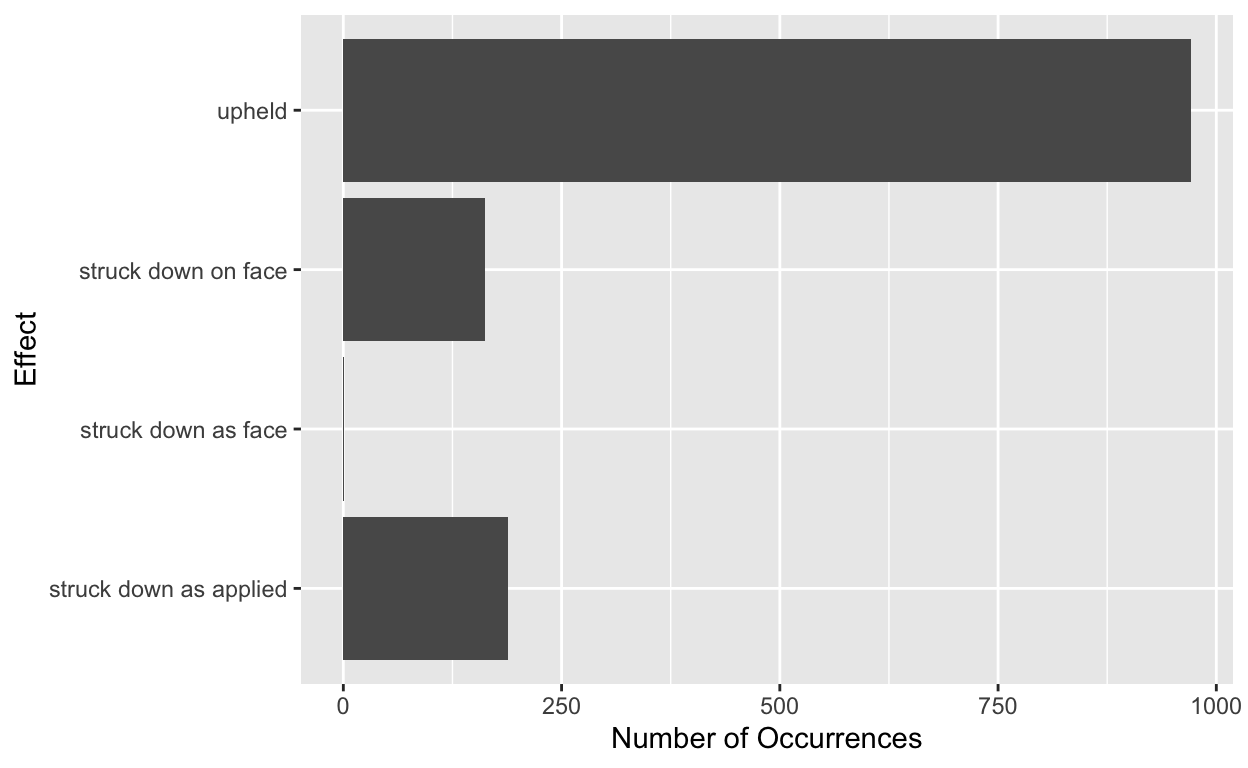
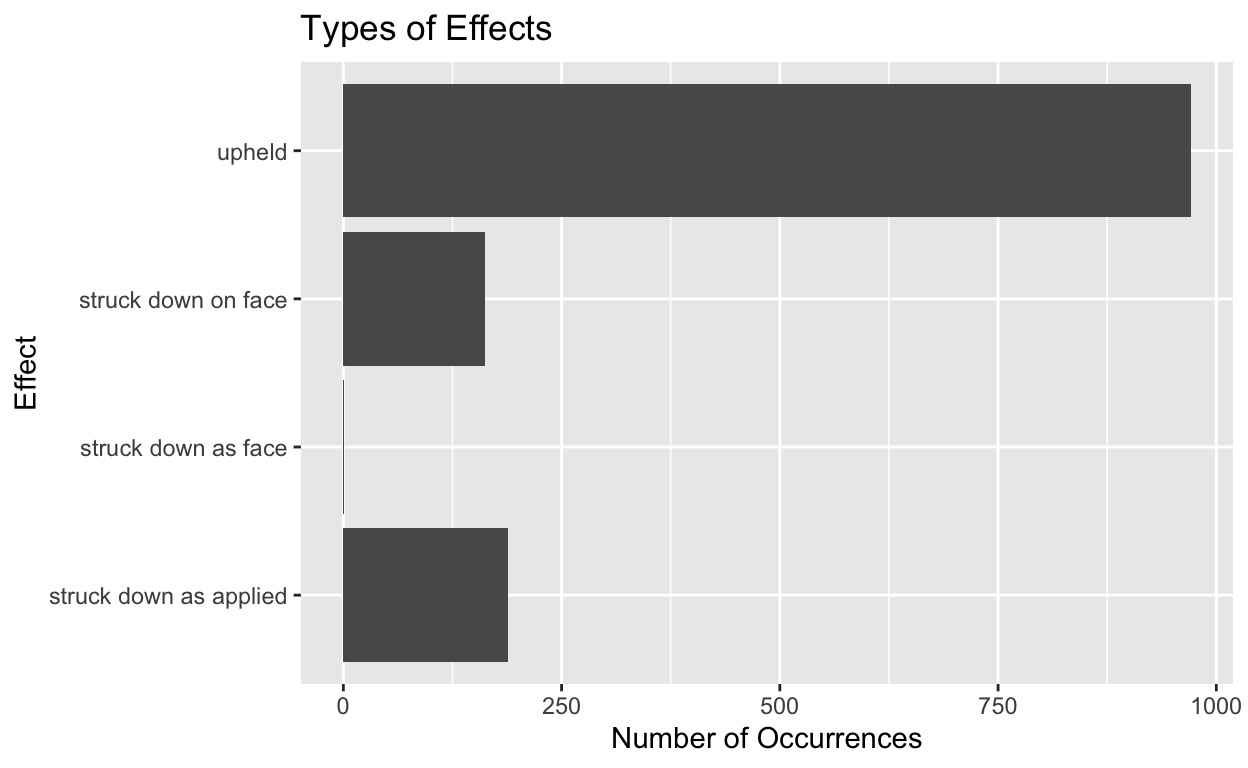
final

diff --git a/index.html b/index.html
@@ -116,7 +116,7 @@ code span.wa { color: #5e5e5e; font-style: italic; } /* Warning */
   <!--/radix_placeholder_rmarkdown_metadata-->
   
   <script type="text/json" id="radix-resource-manifest">
-  {"type":"character","attributes":{},"value":["index_files/anchor-4.2.2/anchor.min.js","index_files/bowser-1.9.3/bowser.min.js","index_files/distill-2.2.21/template.v2.js","index_files/figure-html5/unnamed-chunk-3-1.png","index_files/figure-html5/unnamed-chunk-4-1.png","index_files/figure-html5/unnamed-chunk-8-1.png","index_files/header-attrs-2.17/header-attrs.js","index_files/header-attrs-2.30/header-attrs.js","index_files/jquery-3.6.0/jquery-3.6.0.js","index_files/jquery-3.6.0/jquery-3.6.0.min.js","index_files/jquery-3.6.0/jquery-3.6.0.min.map","index_files/judicial_review_of_congress_database_1789-2022.xlsx","index_files/popper-2.6.0/popper.min.js","index_files/tippy-6.2.7/tippy-bundle.umd.min.js","index_files/tippy-6.2.7/tippy-light-border.css","index_files/tippy-6.2.7/tippy.css","index_files/tippy-6.2.7/tippy.umd.min.js","index_files/webcomponents-2.0.0/webcomponents.js","judicial_review_of_congress_database_1789-2022.xlsx"]}
+  {"type":"character","attributes":{},"value":["index_files/anchor-4.2.2/anchor.min.js","index_files/bowser-1.9.3/bowser.min.js","index_files/distill-2.2.21/template.v2.js","index_files/figure-html5/unnamed-chunk-3-1.png","index_files/figure-html5/unnamed-chunk-4-1.png","index_files/figure-html5/unnamed-chunk-7-1.png","index_files/figure-html5/unnamed-chunk-8-1.png","index_files/figure-html5/unnamed-chunk-9-1.png","index_files/header-attrs-2.17/header-attrs.js","index_files/header-attrs-2.30/header-attrs.js","index_files/jquery-3.6.0/jquery-3.6.0.js","index_files/jquery-3.6.0/jquery-3.6.0.min.js","index_files/jquery-3.6.0/jquery-3.6.0.min.map","index_files/judicial_review_of_congress_database_1789-2022.xlsx","index_files/popper-2.6.0/popper.min.js","index_files/tippy-6.2.7/tippy-bundle.umd.min.js","index_files/tippy-6.2.7/tippy-light-border.css","index_files/tippy-6.2.7/tippy.css","index_files/tippy-6.2.7/tippy.umd.min.js","index_files/webcomponents-2.0.0/webcomponents.js","judicial_review_of_congress_database_1789-2022.xlsx"]}
   </script>
   <!--radix_placeholder_navigation_in_header-->
   <!--/radix_placeholder_navigation_in_header-->
@@ -1544,100 +1544,112 @@ code span.wa { color: #5e5e5e; font-style: italic; } /* Warning */
 </div>
 
 <div class="d-article">
-<h3 id="milestone-1-project-thoughts">Milestone 1: Project thoughts</h3>
-<p>I am interested in exploring data related to judges, potentially elections in certain states, campaigns, and other related types of data.</p>
-<h3 id="milestone-2">Milestone 2</h3>
-<p>My research question is how does the presence of an Attorney General (AG)/Attorney from the Department of Justice (DOJ) affect whether the Supreme Court upholds or strikes down a statutory provision? My hypothesis is that if an AG/DOJ attorney is present during a Supreme Court hearing and decision, the Supreme Court will be more likely to uphold a statutory provision, as the Attorney General/DOJ attorney holds influence over the court to a certain degree and are usually arguing for a statutory provision, rather than against it. My explanatory variable is ATT GEN, which denotes if an attorney from the DOJ presented arguments at the hearing. My outcome variable is EFFECT, and the possible outcomes are upheld (the court upholds an already standing law/decision), struck down as applied (the court does not uphold the standing law/decision for this specfic case only), or struck down on face (the court does not uphold the standing law/decision overall in all cases). If cases where ATT GEN = 1 and EFFECT = upheld.</p>
+<h3 id="introduction">Introduction</h3>
+<p>My research question is to explore how the presence of an Attorney General or Attorney from the Department of Justice (DOJ) affect whether the Supreme Court upholds or strikes down a statutory provision. This is important because evaluating how a member of the Department of Justice in attendance affects a justice’s ruling could have more implications for how judges decide cases. If having a DOJ member present arguments sways a judge’s opinion in favor of upholding a standing decision, it may be shown to be better to not have a DOJ member present during Supreme Court cases.</p>
+<p>My hypothesis is that if an AG/DOJ attorney is present during a Supreme Court hearing and decision, the Supreme Court will be more likely to uphold a statutory provision, because the Attorney General/DOJ attorney holds influence over the court to a certain degree and generally uphold pre-existing statutes based on law that is in effect.</p>
+<h3 id="variable-legend">Variable Legend</h3>
+<p>My explanatory variable is ATT GEN, which denotes if an attorney from the DOJ presented arguments at the hearing. My outcome variable is EFFECT, and the possible outcomes are upheld (the court upholds an already standing law/decision), struck down as applied (the court does not uphold the standing law/decision for this specfic case only), or struck down on face (the court does not uphold the standing law/decision overall in all cases). To support my hypothesis, the data would show that when ATT GEN = 1 and EFFECT = upheld the number of cases would be more than when ATT GEN = 1 and EFFECT = struck down as applied and EFFECT = struck down on/as face.</p>
+<p>Explanatory Variable = ATT GEN</p>
+<ul>
+<li><p>If an attorney from the DOJ presented arguments at the hearing</p></li>
+<li><p>The possible outcomes are</p>
+<ul>
+<li><p>1 (Attorney general or member of the Department of Justice presented arguments)</p></li>
+<li><p>0 (Attorney general or member of the Department of Justice did not present arguments)</p></li>
+</ul></li>
+</ul>
+<p>Outcome Variable = EFFECT</p>
+<ul>
+<li><p>The possible outcomes are</p>
+<ul>
+<li><p>Upheld (the court upholds an already standing law/decision)</p></li>
+<li><p>Struck down as applied (the court does not uphold the standing law/decision for this specific case only)</p></li>
+<li><p>Struck down on face (the court does not uphold the standing law/decision overall in all cases)</p></li>
+</ul></li>
+</ul>
+<h3 id="graphs-and-data">Graphs and Data</h3>
 <div class="layout-chunk" data-layout="l-body">
-<div class="sourceCode">
-<pre class="sourceCode r"><code class="sourceCode r"><span><span class='kw'><a href='https://rdrr.io/r/base/library.html'>library</a></span><span class='op'>(</span><span class='va'><a href='https://readxl.tidyverse.org'>readxl</a></span><span class='op'>)</span></span>
-<span><span class='kw'><a href='https://rdrr.io/r/base/library.html'>library</a></span><span class='op'>(</span><span class='va'><a href='https://tidyverse.tidyverse.org'>tidyverse</a></span><span class='op'>)</span></span></code></pre>
-</div>
-</div>
-<div class="layout-chunk" data-layout="l-body">
-<div class="sourceCode">
-<pre class="sourceCode r"><code class="sourceCode r"><span><span class='va'>judicial</span> <span class='op'>&lt;-</span> <span class='fu'><a href='https://readxl.tidyverse.org/reference/read_excel.html'>read_xlsx</a></span><span class='op'>(</span><span class='st'>"/Users/autumnlee/PS-270-Final-Proj/judicial_review_of_congress_database_1789-2022.xlsx"</span><span class='op'>)</span></span>
-<span></span>
-<span><span class='fu'><a href='https://rdrr.io/r/utils/head.html'>head</a></span><span class='op'>(</span><span class='va'>judicial</span><span class='op'>)</span></span></code></pre>
-</div>
-<pre><code># A tibble: 6 × 27
-  CASE           CITATION DATE   YEAR DECADE DECISION DECISION2 EFFECT
-  &lt;chr&gt;          &lt;chr&gt;    &lt;chr&gt; &lt;dbl&gt;  &lt;dbl&gt;    &lt;dbl&gt;     &lt;dbl&gt; &lt;chr&gt; 
-1 United States… *54 U.S… 2/17…  1794   1790        2         1 struc…
-2 Penhallow v. … 003 U.S… 2/24…  1795   1790        0         0 upheld
-3 Hylton v. Uni… 003 U.S… 3/8/…  1796   1790        0         0 upheld
-4 United States… 003 U.S… 8/11…  1796   1790        0         0 upheld
-5 Mossman v. Hi… 004 U.S… 8/11…  1800   1800        1         1 struc…
-6 Marbury v. Ma… 005 U.S… 2/24…  1803   1800        2         1 struc…
-# ℹ 19 more variables: `STAT NAME` &lt;chr&gt;, `STAT CITE` &lt;chr&gt;,
-#   `PL #` &lt;chr&gt;, `S-DATE` &lt;chr&gt;, `TIME TO DECISION` &lt;dbl&gt;,
-#   CONGRESS &lt;dbl&gt;, AREA1 &lt;chr&gt;, AREA2 &lt;dbl&gt;, LNDMRK &lt;dbl&gt;,
-#   LNDDTL &lt;dbl&gt;, `ATT GEN` &lt;dbl&gt;, CERT &lt;dbl&gt;, REVERSD &lt;dbl&gt;,
-#   CRS &lt;dbl&gt;, `GVT PRTY` &lt;dbl&gt;, DISSENT &lt;dbl&gt;, `H-CT` &lt;dbl&gt;,
-#   caseId.SCDB &lt;chr&gt;, `JRC caseID` &lt;chr&gt;</code></pre>
-</div>
-<h3 id="milestone-3">Milestone 3</h3>
-<div class="layout-chunk" data-layout="l-body">
-<div class="sourceCode">
-<pre class="sourceCode r"><code class="sourceCode r"><span><span class='va'>milestone_3</span> <span class='op'>&lt;-</span> <span class='va'>judicial</span> <span class='op'>|&gt;</span></span>
-<span>  <span class='fu'><a href='https://dplyr.tidyverse.org/reference/group_by.html'>group_by</a></span><span class='op'>(</span><span class='va'>`ATT GEN`</span>, <span class='va'>`EFFECT`</span><span class='op'>)</span> <span class='op'>|&gt;</span></span>
-<span>  <span class='fu'><a href='https://dplyr.tidyverse.org/reference/summarise.html'>summarize</a></span><span class='op'>(</span>n<span class='op'>=</span><span class='fu'><a href='https://dplyr.tidyverse.org/reference/context.html'>n</a></span><span class='op'>(</span><span class='op'>)</span>, .groups <span class='op'>=</span> <span class='st'>"drop"</span><span class='op'>)</span></span></code></pre>
-</div>
+
 </div>
 <div class="layout-chunk" data-layout="l-body">
-<div class="sourceCode">
-<pre class="sourceCode r"><code class="sourceCode r"><span><span class='va'>milestone_3_1</span> <span class='op'>&lt;-</span> <span class='va'>milestone_3</span> <span class='op'>|&gt;</span></span>
-<span>  <span class='fu'><a href='https://ggplot2.tidyverse.org/reference/ggplot.html'>ggplot</a></span><span class='op'>(</span><span class='fu'><a href='https://ggplot2.tidyverse.org/reference/aes.html'>aes</a></span><span class='op'>(</span>x <span class='op'>=</span> <span class='va'>n</span>, y <span class='op'>=</span> <span class='va'>`EFFECT`</span> <span class='op'>)</span><span class='op'>)</span> <span class='op'>+</span></span>
-<span>          <span class='fu'><a href='https://ggplot2.tidyverse.org/reference/geom_bar.html'>geom_col</a></span><span class='op'>(</span><span class='op'>)</span> <span class='op'>+</span></span>
-<span>  <span class='fu'><a href='https://ggplot2.tidyverse.org/reference/labs.html'>labs</a></span><span class='op'>(</span></span>
-<span>    y <span class='op'>=</span> <span class='st'>"Effect"</span>,</span>
-<span>    x <span class='op'>=</span> <span class='st'>"Number of Occurrences"</span></span>
-<span>  <span class='op'>)</span></span>
-<span></span>
-<span><span class='va'>milestone_3_1</span></span></code></pre>
+
 </div>
+<div class="layout-chunk" data-layout="l-body">
+
+</div>
+<div class="layout-chunk" data-layout="l-body">
 <p><img src="index_files/figure-html5/unnamed-chunk-4-1.png" alt="" width="624" /></p>
 </div>
-<h3 id="milestone-4">Milestone 4</h3>
-<p>Your article should contain one visualization and one analysis that attempts to answer your research question. There does not need to be a long discussion, but the results should be presented in either a second visualization or a nicely formatted table.</p>
 <div class="layout-chunk" data-layout="l-body">
-<div class="sourceCode">
-<pre class="sourceCode r"><code class="sourceCode r"><span><span class='va'>judicial</span> <span class='op'>&lt;-</span> <span class='va'>judicial</span> <span class='op'>|&gt;</span></span>
-<span>  <span class='fu'><a href='https://dplyr.tidyverse.org/reference/group_by.html'>group_by</a></span><span class='op'>(</span><span class='va'>EFFECT</span><span class='op'>)</span> <span class='op'>|&gt;</span></span>
-<span>  <span class='fu'><a href='https://dplyr.tidyverse.org/reference/mutate.html'>mutate</a></span><span class='op'>(</span>Outcome <span class='op'>=</span> <span class='fu'><a href='https://dplyr.tidyverse.org/reference/case_when.html'>case_when</a></span><span class='op'>(</span></span>
-<span>    <span class='va'>EFFECT</span> <span class='op'>==</span> <span class='st'>"struck down as applied"</span> <span class='op'>&amp;</span> <span class='va'>`ATT GEN`</span> <span class='op'>==</span> <span class='fl'>1</span> <span class='op'>~</span> <span class='st'>"Struck Down with Att Gen"</span>,</span>
-<span>    <span class='va'>EFFECT</span> <span class='op'>==</span> <span class='st'>"struck down as applied"</span> <span class='op'>&amp;</span> <span class='va'>`ATT GEN`</span> <span class='op'>==</span> <span class='fl'>0</span> <span class='op'>~</span> <span class='st'>"Struck Down without Att Gen"</span>,</span>
-<span>    <span class='va'>EFFECT</span> <span class='op'>==</span> <span class='st'>"struck down on face"</span> <span class='op'>&amp;</span> <span class='va'>`ATT GEN`</span> <span class='op'>==</span> <span class='fl'>1</span> <span class='op'>~</span> <span class='st'>"Struck Down with Att Gen"</span>,</span>
-<span>    <span class='va'>EFFECT</span> <span class='op'>==</span> <span class='st'>"struck down on face"</span> <span class='op'>&amp;</span> <span class='va'>`ATT GEN`</span> <span class='op'>==</span> <span class='fl'>0</span> <span class='op'>~</span> <span class='st'>"Struck Down without Att Gen"</span>,</span>
-<span>    <span class='va'>EFFECT</span> <span class='op'>==</span> <span class='st'>"struck down as face"</span> <span class='op'>&amp;</span> <span class='va'>`ATT GEN`</span> <span class='op'>==</span> <span class='fl'>1</span> <span class='op'>~</span> <span class='st'>"Struck Down with Att Gen"</span>,</span>
-<span>    <span class='va'>EFFECT</span> <span class='op'>==</span> <span class='st'>"struck down as face"</span> <span class='op'>&amp;</span> <span class='va'>`ATT GEN`</span> <span class='op'>==</span> <span class='fl'>0</span> <span class='op'>~</span> <span class='st'>"Struck Down without Att Gen"</span>,</span>
-<span>    <span class='va'>EFFECT</span> <span class='op'>==</span> <span class='st'>"upheld"</span> <span class='op'>&amp;</span> <span class='va'>`ATT GEN`</span> <span class='op'>==</span> <span class='fl'>1</span> <span class='op'>~</span> <span class='st'>"Upheld with Att Gen"</span>,</span>
-<span>    <span class='va'>EFFECT</span> <span class='op'>==</span> <span class='st'>"upheld"</span> <span class='op'>&amp;</span> <span class='va'>`ATT GEN`</span> <span class='op'>==</span> <span class='fl'>0</span> <span class='op'>~</span> <span class='st'>"Upheld without Att Gen"</span></span>
-<span>  <span class='op'>)</span><span class='op'>)</span></span></code></pre>
+
 </div>
+<h3 id="results">Results</h3>
+<div class="layout-chunk" data-layout="l-body">
+
 </div>
 <div class="layout-chunk" data-layout="l-body">
-<div class="sourceCode">
-<pre class="sourceCode r"><code class="sourceCode r"><span><span class='va'>milestone_4</span> <span class='op'>&lt;-</span> <span class='va'>judicial</span> <span class='op'>|&gt;</span> </span>
-<span>  <span class='fu'><a href='https://dplyr.tidyverse.org/reference/group_by.html'>group_by</a></span><span class='op'>(</span><span class='va'>`Outcome`</span><span class='op'>)</span> <span class='op'>|&gt;</span></span>
-<span>  <span class='fu'><a href='https://dplyr.tidyverse.org/reference/summarise.html'>summarize</a></span><span class='op'>(</span>n<span class='op'>=</span><span class='fu'><a href='https://dplyr.tidyverse.org/reference/context.html'>n</a></span><span class='op'>(</span><span class='op'>)</span><span class='op'>)</span></span></code></pre>
-</div>
+<p><img src="index_files/figure-html5/unnamed-chunk-7-1.png" alt="" width="624" /></p>
 </div>
 <div class="layout-chunk" data-layout="l-body">
-<div class="sourceCode">
-<pre class="sourceCode r"><code class="sourceCode r"><span><span class='va'>milestone_4_1</span> <span class='op'>&lt;-</span> <span class='va'>milestone_4</span> <span class='op'>|&gt;</span></span>
-<span>  <span class='fu'><a href='https://ggplot2.tidyverse.org/reference/ggplot.html'>ggplot</a></span><span class='op'>(</span><span class='fu'><a href='https://ggplot2.tidyverse.org/reference/aes.html'>aes</a></span><span class='op'>(</span>x <span class='op'>=</span> <span class='va'>Outcome</span>, y <span class='op'>=</span> <span class='va'>n</span><span class='op'>)</span><span class='op'>)</span> <span class='op'>+</span></span>
-<span>           <span class='fu'><a href='https://ggplot2.tidyverse.org/reference/geom_bar.html'>geom_bar</a></span><span class='op'>(</span>stat <span class='op'>=</span> <span class='st'>"identity"</span>, width <span class='op'>=</span> <span class='fl'>1</span><span class='op'>)</span></span></code></pre>
+<table style="width:35%;">
+<colgroup>
+<col style="width: 19%" />
+<col style="width: 15%" />
+</colgroup>
+<thead>
+<tr class="header">
+<th></th>
+<th><ol type="1">
+<li></li>
+</ol></th>
+</tr>
+</thead>
+<tbody>
+<tr class="odd">
+<td>(Intercept)</td>
+<td>0.738</td>
+</tr>
+<tr class="even">
+<td></td>
+<td>(0.013)</td>
+</tr>
+<tr class="odd">
+<td>Num.Obs.</td>
+<td>1086</td>
+</tr>
+<tr class="even">
+<td>R2</td>
+<td>0.000</td>
+</tr>
+<tr class="odd">
+<td>R2 Adj.</td>
+<td>0.000</td>
+</tr>
+<tr class="even">
+<td>AIC</td>
+<td>1300.1</td>
+</tr>
+<tr class="odd">
+<td>BIC</td>
+<td>1310.1</td>
+</tr>
+<tr class="even">
+<td>Log.Lik.</td>
+<td>-648.042</td>
+</tr>
+<tr class="odd">
+<td>RMSE</td>
+<td>0.44</td>
+</tr>
+</tbody>
+</table>
 </div>
-</div>
-<div class="layout-chunk" data-layout="l-body">
-<div class="sourceCode">
-<pre class="sourceCode r"><code class="sourceCode r"><span><span class='va'>milestone_4_1</span></span></code></pre>
-</div>
-<p><img src="index_files/figure-html5/unnamed-chunk-8-1.png" alt="" width="624" /></p>
-</div>
-<p>This graph is showing that there is a pattern where when an attorney general/DOJ member is present, the case is likely to be upheld. It seems that in general the Supreme Court upholds cases more often with or without an attorney general/DOJ member present.</p>
-<div class="sourceCode" id="cb2"><pre class="sourceCode r distill-force-highlighting-css"><code class="sourceCode r"></code></pre></div>
+<h3 id="conclusion">Conclusion</h3>
+<p>This graph is showing that there is a pattern where when an attorney general/DOJ member is present, the case is likely to be upheld. According to the main coefficient of interest from the regression, there is a 74% chance that if a case were to be held with an attorney general, the statute the case follows would be upheld.</p>
+<p>It seems that in general the Supreme Court upholds cases more often with or without an attorney general/DOJ member present. This data should not be held causally. The rates at which a case is upheld in when a DOJ member is or is not present is at a similar proportion to when a DOJ member is not present.</p>
+<p>This data can support my hypothesis, however I do not believe it is substantive enough to demonstrate a direct causation. It may be that the court decides to uphold cases more often in general since prior courts have already argued for a similar or the same statute.</p>
+<p>In terms of limitations, if I had more time there are a lot more factors that I could have compared with besides ATT GEN to be more sure if the only factor affecting the rulings is if an attorney general/member of the DOJ is present. I could have compared OUTCOME to the decade or time to decision, which I feel like could also affect the ruling greatly.</p>
+<div class="sourceCode" id="cb1"><pre class="sourceCode r distill-force-highlighting-css"><code class="sourceCode r"></code></pre></div>
 <!--radix_placeholder_article_footer-->
 <!--/radix_placeholder_article_footer-->
 </div>